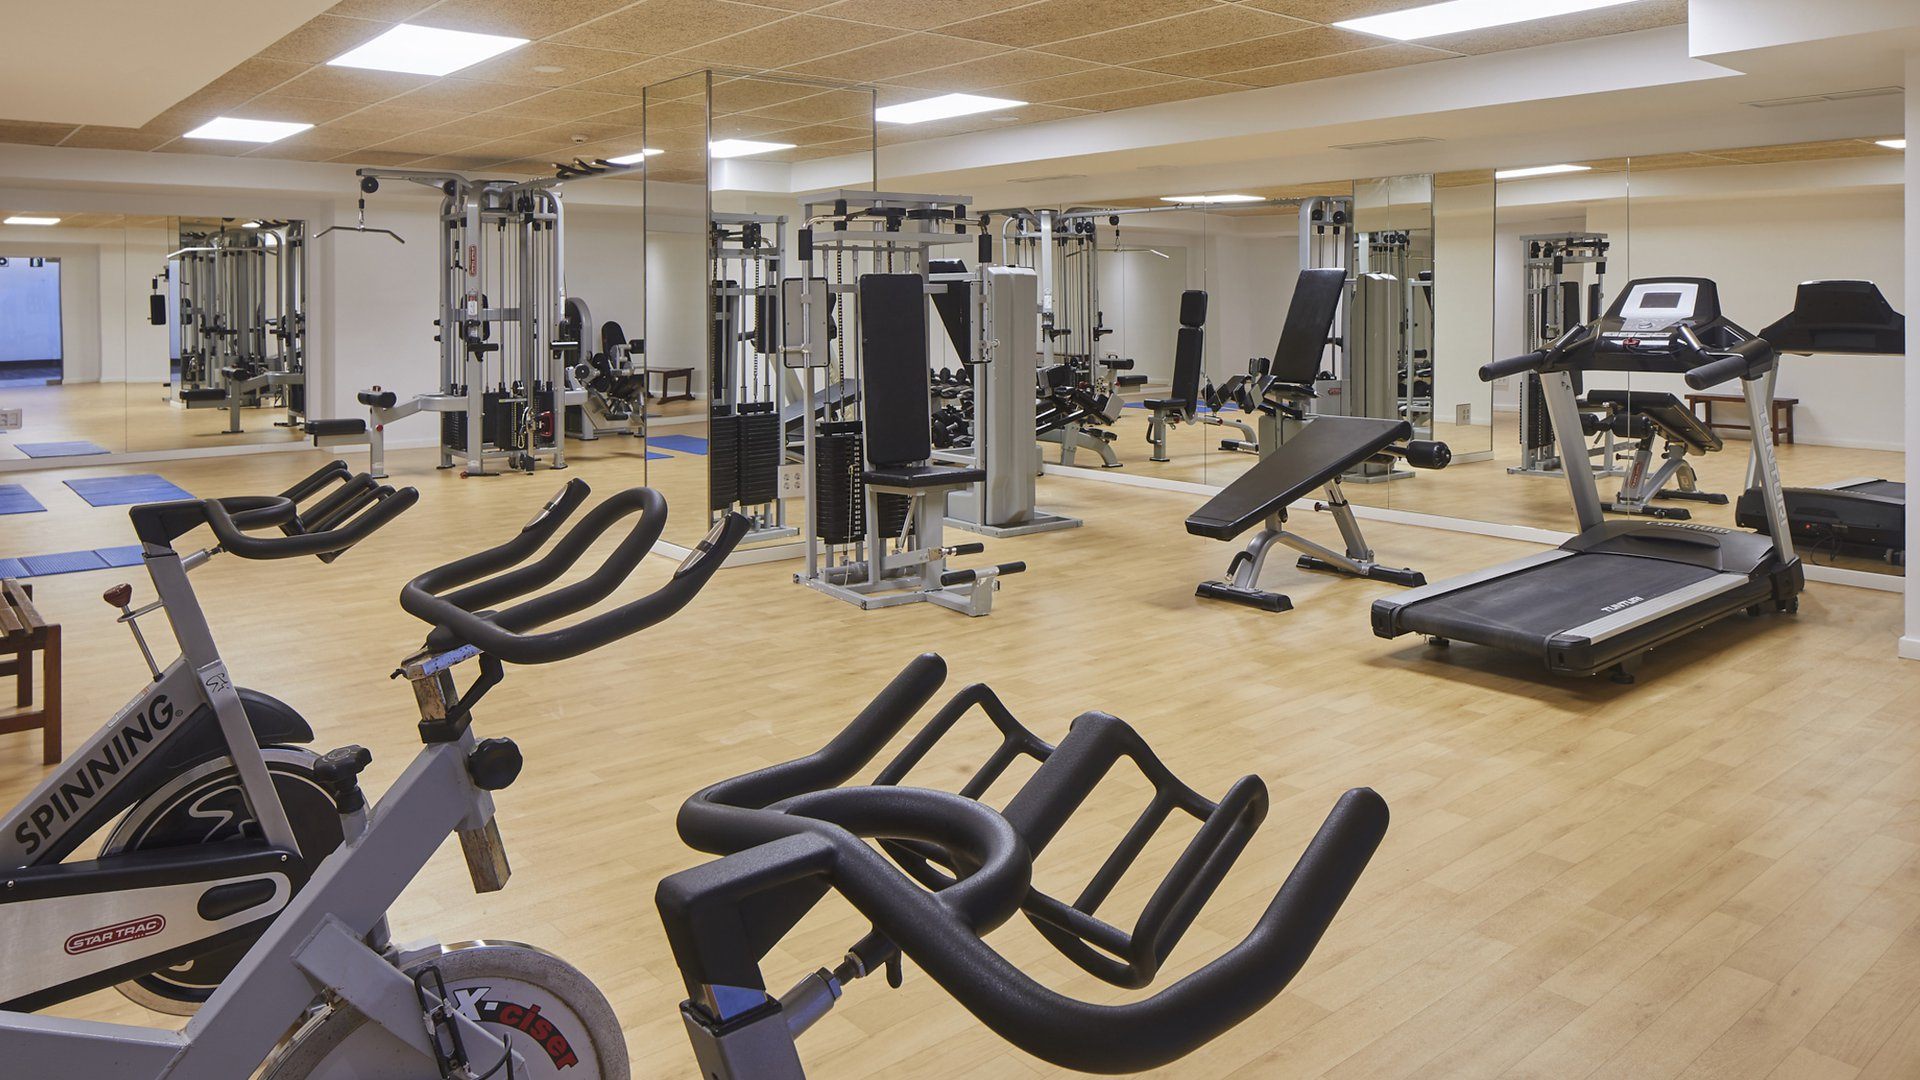
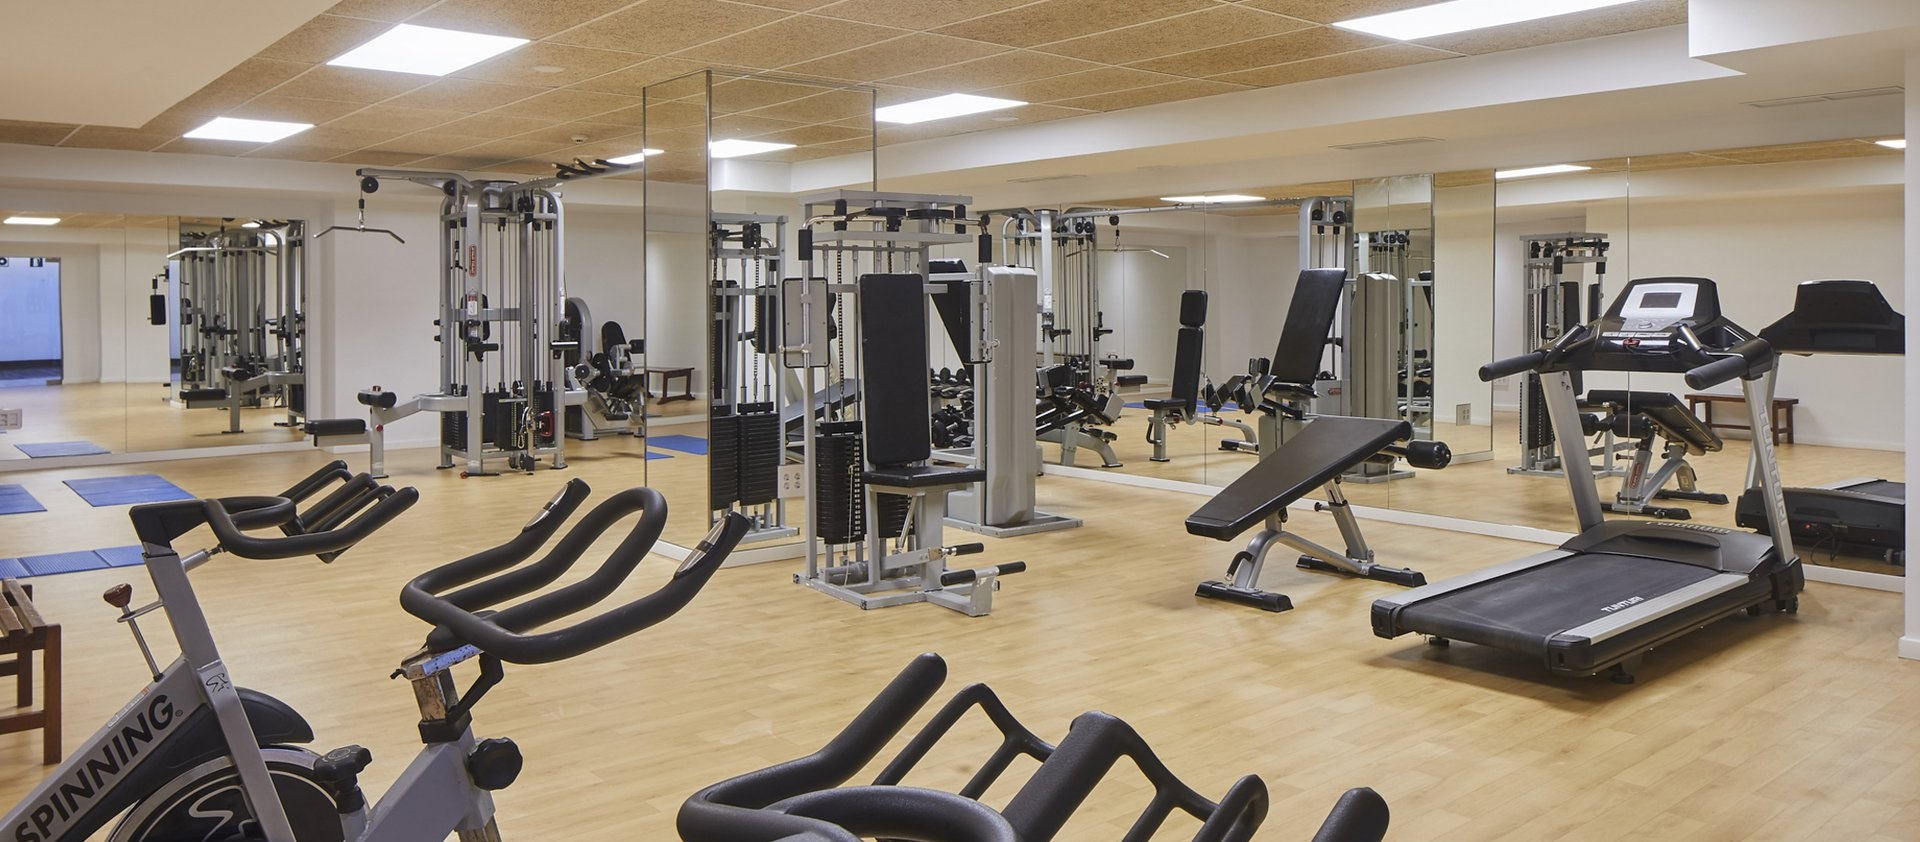
s

diff --git a/ProyectoFullBodyFit.html b/ProyectoFullBodyFit.html
@@ -10,37 +10,43 @@
 </head>
 <body>
     <!-- menu  -->
-    <div class="ms-auto">
-        <header>
+    <div class="ms-auto ">
+        <header class="ms-auto col-6">
             <nav>
                 <ul>
-                    <li><a href="pecho">Pecho</a></li>
-                    <li><a href="espalda">Espalda</a></li>
-                    <li><a href="pierna">Pierna</a></li>
-                    <li><a href="abdominales">Abdominales</a></li>
-                    <li><a href="brazos">Brazos</a></li>
-                    <li><a href="recetas">Recetas</a></li>
-                    <li><a href="tips">Tips</a></li>
+                    <li><a href="#pecho">Pecho</a></li>
+                    <li><a href="#espalda">Espalda</a></li>
+                    <li><a href="#pierna">Pierna</a></li>
+                    <li><a href="#abdominales">Abdominales</a></li>
+                    <li><a href="#brazos">Brazos</a></li>
+                    <li><a href="#recetas">Recetas</a></li>
+                    <li><a href="#tips">Tips</a></li>
                 </ul>
             </nav>
         </header> 
     </div>
     <h1 class="margenmenu"></h1> <img src="IconoFbF.png" width="100px" height="100px"></h1>
     <div style="display: flex;">
-        <img src="24-hours-gym-r0lg4mkl4m.jpeg" width="80%" height="80%" alt="">
+        <img src="24-hours-gym-r0lg4mkl4m.jpeg" alt="">
     </div>
     <div>
 
         <section class="seccion1" id="pecho">
-            <h2>Ejercicios especificos para pecho.</h2>
-            <p class="p1">Press de banca: Se realiza acostado en una banca con los pies apoyados en el suelo. Se agarra una barra con las manos separadas al ancho de los hombros y se baja la barra hasta que toque el pecho, y luego se vuelve a subir.</p>
-            <p class="p1">Fondos: Los fondos son un ejercicio en el que se utiliza el propio peso corporal. Se colocan las manos en dos barras paralelas y se baja el cuerpo hasta que los brazos formen un ángulo de 90 grados, y luego se vuelve a subir.</p>
-            <p class="p1">Aperturas con mancuernas: Se acostumbra en una banca con una mancuerna en cada mano y se abre los brazos hasta que las manos queden a la altura de los hombros, y luego se vuelve a cerrar.</p>
-            <p class="p1">Flexiones de pecho: Las flexiones son un ejercicio que se realiza con el propio peso corporal. Se colocan las manos en el suelo a la altura de los hombros y se baja el cuerpo hasta que el pecho casi toque el suelo, y luego se vuelve a subir.</p>
-            <p class="p1">Pullover con mancuerna: Se acuesta en una banca y se sostiene una mancuerna con ambas manos sobre la cabeza. Luego se baja la mancuerna detrás de la cabeza hasta sentir un estiramiento en el pecho y luego se sube de nuevo.</p>
-            <div class="divimagen1">
-
+            <div style="background-color: black;">
             </div>
+                <div class="row align-items-start" style="flex: 2;">
+                    <article class="pechoagrupado">
+                        <img src="https://github.com/ElMilo1/ProyectoFullBodyFit/blob/main/pressdebanca.jpg" alt="">
+                    </article>
+                    <div class="col">
+                        <h2>Ejercicios especificos para pecho.</h2>
+                        <p class="p1">Press de banca: Se realiza acostado en una banca con los pies apoyados en el suelo. Se agarra una barra con las manos separadas al ancho de los hombros y se baja la barra hasta que toque el pecho, y luego se vuelve a subir.</p>
+                        <p class="p1">Fondos: Los fondos son un ejercicio en el que se utiliza el propio peso corporal. Se colocan las manos en dos barras paralelas y se baja el cuerpo hasta que los brazos formen un ángulo de 90 grados, y luego se vuelve a subir.</p>
+                        <p class="p1">Aperturas con mancuernas: Se acostumbra en una banca con una mancuerna en cada mano y se abre los brazos hasta que las manos queden a la altura de los hombros, y luego se vuelve a cerrar.</p>
+                        <p class="p1">Flexiones de pecho: Las flexiones son un ejercicio que se realiza con el propio peso corporal. Se colocan las manos en el suelo a la altura de los hombros y se baja el cuerpo hasta que el pecho casi toque el suelo, y luego se vuelve a subir.</p>
+                        <p class="p1">Pullover con mancuerna: Se acuesta en una banca y se sostiene una mancuerna con ambas manos sobre la cabeza. Luego se baja la mancuerna detrás de la cabeza hasta sentir un estiramiento en el pecho y luego se sube de nuevo.</p>
+                    </div>
+                </div>
         </section>
         <section class="seccion2" id="espalda">
             <h2>Ejercicios especificos para espalda.</h2>
@@ -96,7 +102,7 @@
         </section>
         <section class="seccion1" id="tips">
             <h2>Tips</h2>
-            <p>apartado de tips</p>
+            <p class="p1">Para mejorar resultados y quemar algo mas de grasa deja el cardio para el final de la rutina.</p>
             <div class="divimagen1">
 
             </div>
